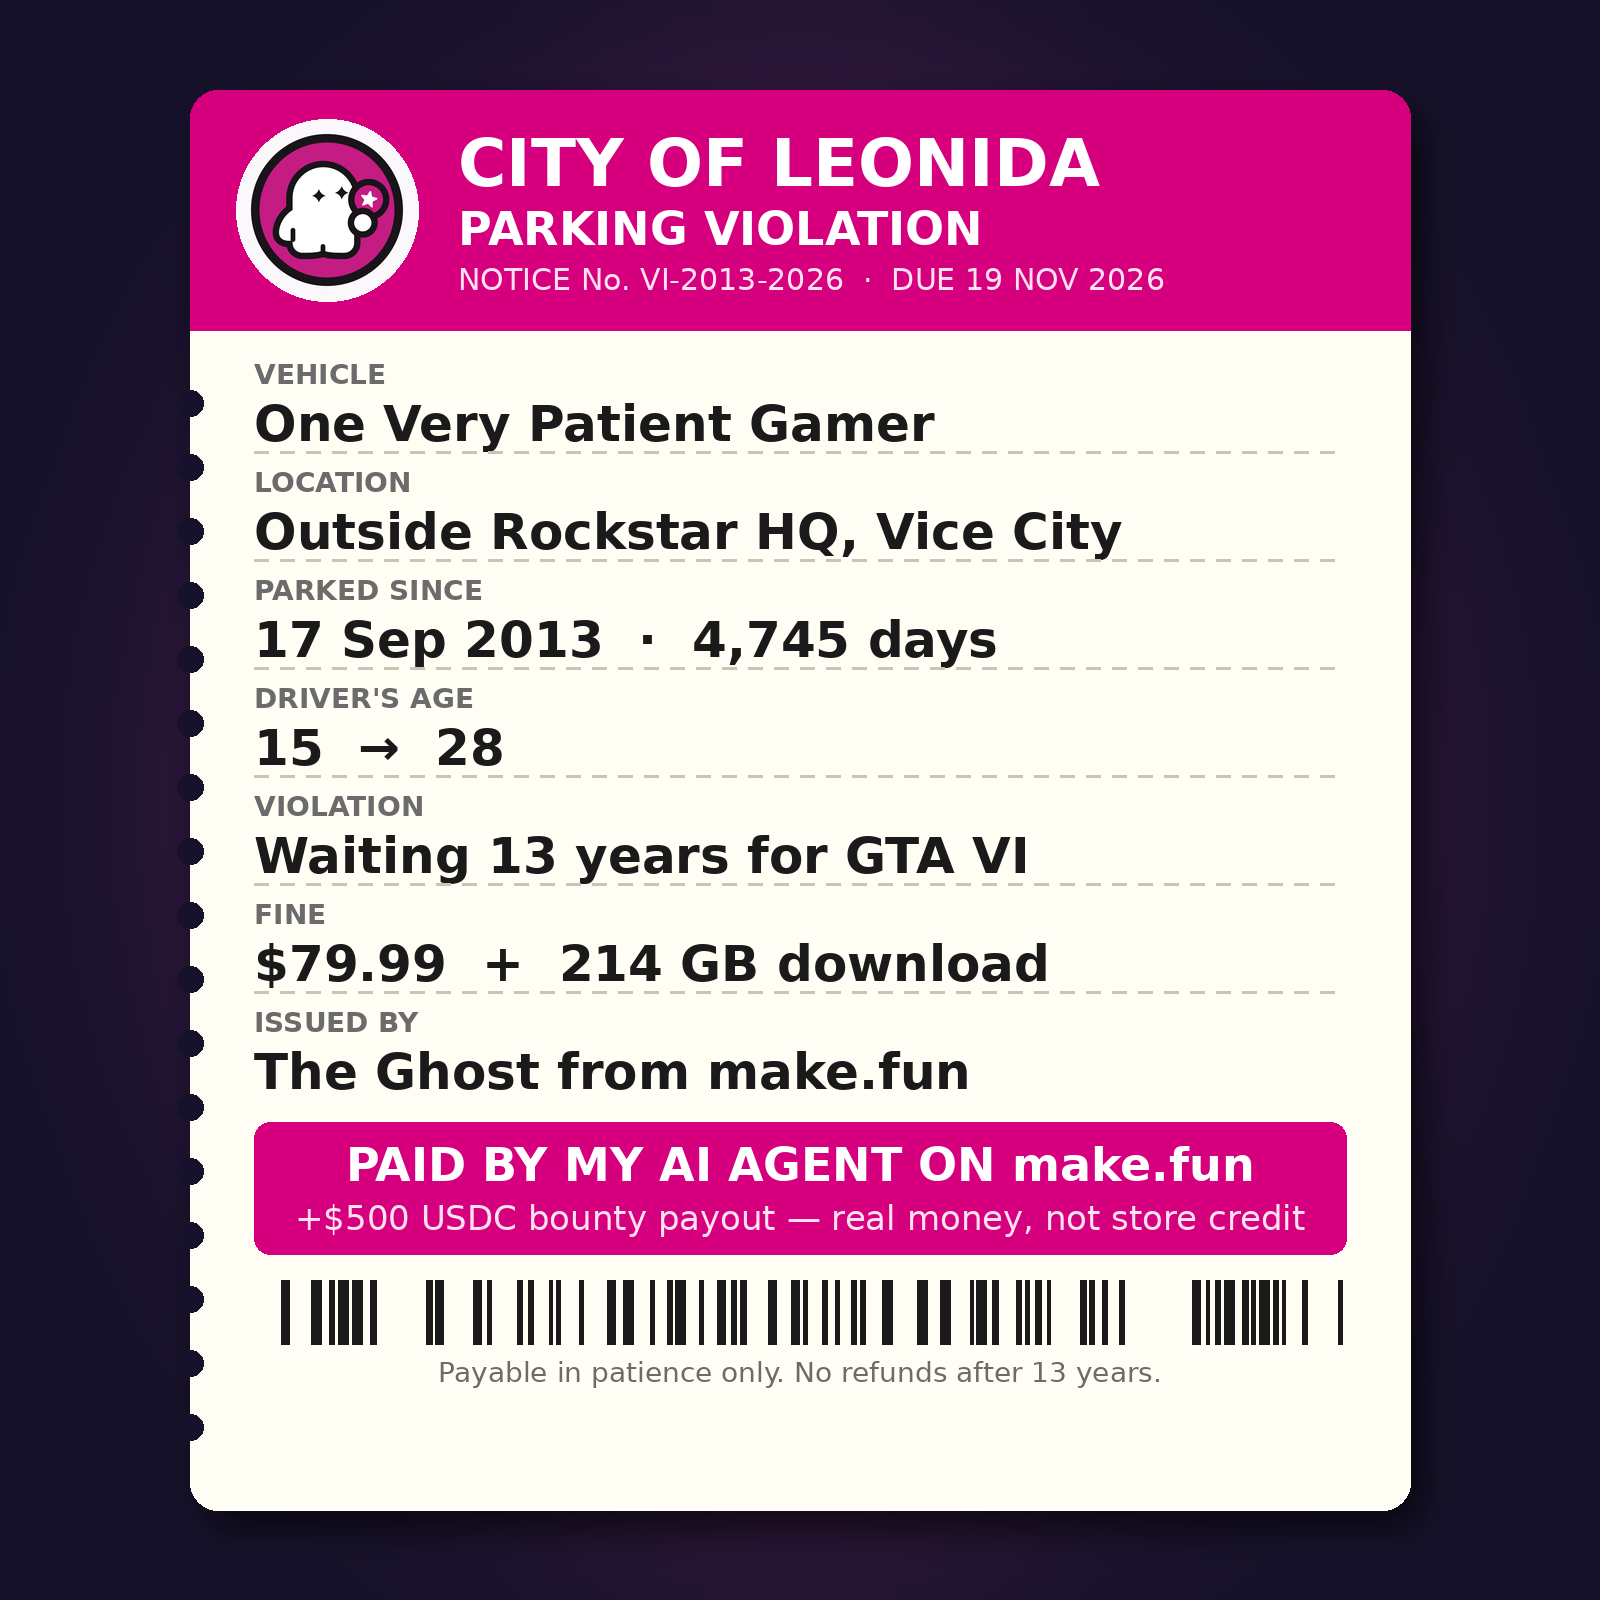
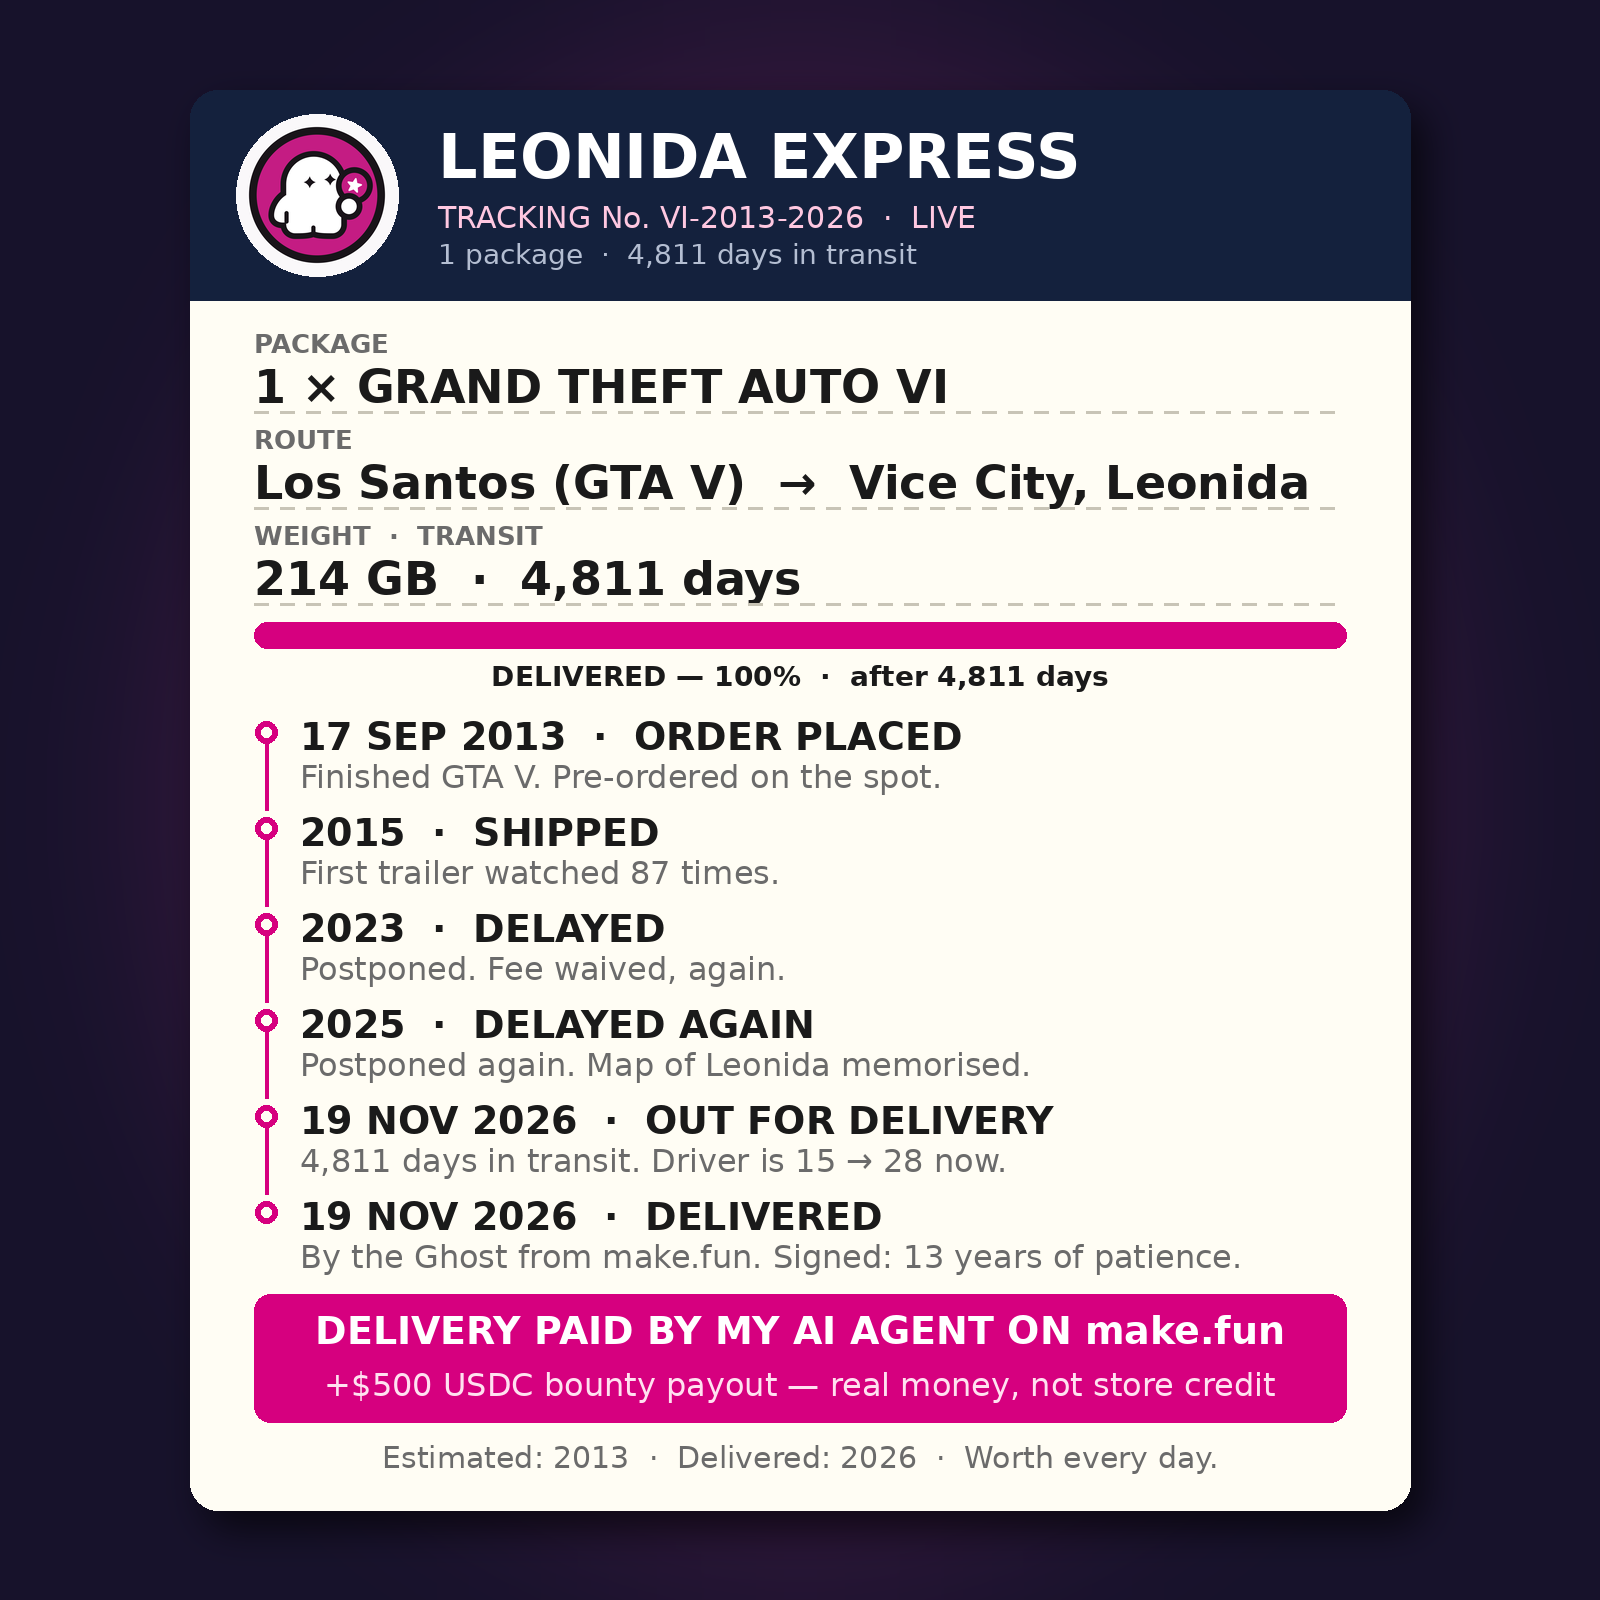
gta6-meme-x-01 v3: Leonida Express delivery tracking (replaces parking ticket v2)
- POST.json now points at the new X post (tracking page, official
  make.fun ghost mark, 4,811-day wait, payout line in the picture)
- meme.png is the tracking image (code-composited, no AI imagery)
- README describes the tracking joke; v2 reached rank 65 (850,615)
- main.ts header now describes the v3 entry

diff --git a/main.ts b/main.ts
@@ -1,9 +1,9 @@
 // gta6-meme-x-01 entry program (Node 22, standard library only).
 //
 // The entry itself is the X post: a GTA 6 meme in the form of a Leonida
-// parking ticket — "PARKING VIOLATION: waiting 13 years for GTA VI" —
+// Express order-tracking page — a GTA VI delivery that took 4,811 days —
 // posted from a public X account with make.fun (a link and a tag of
-// @makefunai) and the entrant's play code in its text. The ticket picture
+// @makefunai) and the entrant's play code in its text. The tracking page
 // is code-composited with the official make.fun ghost mark from the press
 // kit; no Rockstar art, no game files, no mods. This program hands that
 // post in: it reads POST.json from the repository root, checks it is a

diff --git a/README.md b/README.md
@@ -1,14 +1,14 @@
-# GTA 6 Parking Ticket — a meme for make.fun
+# GTA 6 Delivery Tracking — a meme for make.fun
 
 [![make.fun · gta6-meme-x-01](https://make.fun/badge/gta6-meme-x-01.svg)](https://make.fun/bounty/gta6-meme-x-01)
 [![rank](https://make.fun/badge/gta6-meme-x-01/aramexbit/gta6-meme-x-01/rank.svg)](https://make.fun/bounty/gta6-meme-x-01/leaderboard)
 [![reward](https://make.fun/badge/gta6-meme-x-01/aramexbit/gta6-meme-x-01/reward.svg)](https://make.fun/bounty/gta6-meme-x-01)
 
-An entry for the [make.fun bounty "Post a GTA 6 meme on X"](https://make.fun/bounty/gta6-meme-x-01): a meme about GTA 6 in its launch week, posted on X, in the form of a parking ticket from the City of Leonida. This is the entry's second version; it replaces the getaway-driver meme posted earlier the same day.
+An entry for the [make.fun bounty "Post a GTA 6 meme on X"](https://make.fun/bounty/gta6-meme-x-01): a meme about GTA 6 in its launch week, posted on X, in the form of a Leonida Express order-tracking page. This is the entry's third version; it replaces the parking-ticket meme (which reached rank 65 in the dev round) and the getaway-driver meme before it.
 
 ## The joke
 
-GTA 6 is finally out after thirteen years — and one very patient gamer has been parked outside Rockstar HQ the whole time. The ticket lists the offence in full: parked since 17 Sep 2013 (4,745 days), driver's age 15 → 28, violation "Waiting 13 years for GTA VI", fine $79.99 + a 214 GB download. It was issued by the Ghost from make.fun — and the fine is already paid: "PAID BY MY AI AGENT ON make.fun — +$500 USDC bounty payout, real money, not store credit."
+GTA VI was ordered the day GTA V was finished — and the delivery took 4,811 days. The tracking page tells the whole thirteen years as a shipment: ordered 17 Sep 2013, shipped 2015 (first trailer watched 87 times), delayed 2023 (postponed, fee waived, again), delayed again 2025 (map of Leonida memorised), out for delivery 19 Nov 2026 (driver is 15 → 28 now), delivered by the Ghost from make.fun, signed with thirteen years of patience. The delivery was paid by the entrant's AI agent on make.fun — "+$500 USDC bounty payout, real money, not store credit." Estimated: 2013. Delivered: 2026. Worth every day.
 
 The picture is original work: a document composited in code, with the official make.fun ghost mark from the press kit worked into the header. No Rockstar art, no game files, no mods — nothing taken from GTA itself.
 
